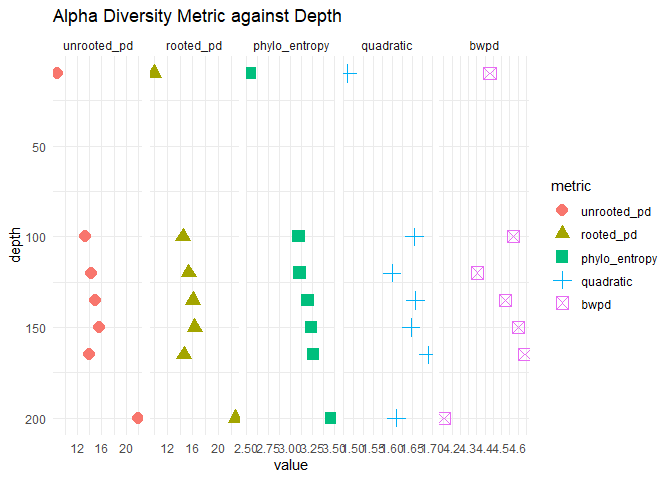
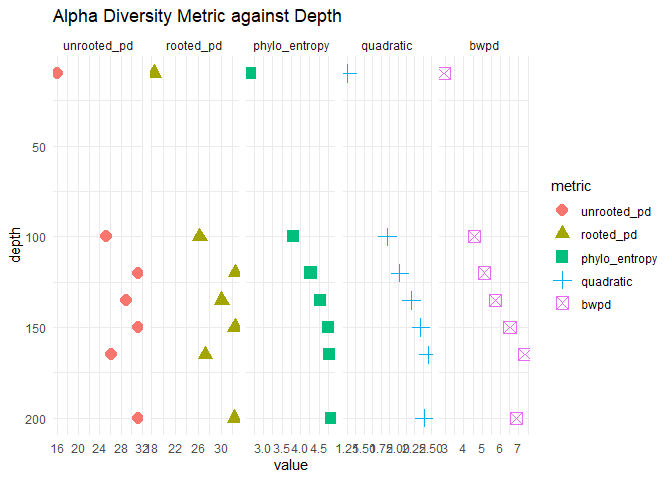
submit

diff --git a/Analysis_Code_SY.md b/Analysis_Code_SY.md
@@ -34,99 +34,7 @@ library(tidyverse)   # Includes ggplot2, dplyr, readr, etc.
 library(pheatmap)
 
 # Load the data from the CSV file
-saanich_data <- read_csv("../Saanich_Data.csv")  # Change this to read_tsv() if needed
-```
-
-    ## Rows: 1605 Columns: 29
-    ## ── Column specification ────────────────────────────────────────────────────────
-    ## Delimiter: ","
-    ## dbl  (28): Longitude, Latitude, Cruise, Depth, WS_O2, PO4, SI, WS_NO3, Mean_...
-    ## date  (1): Date
-    ## 
-    ## ℹ Use `spec()` to retrieve the full column specification for this data.
-    ## ℹ Specify the column types or set `show_col_types = FALSE` to quiet this message.
-
-``` r
-# Display the first few rows of the dataset
-head(saanich_data)
-```
-
-    ## # A tibble: 6 × 29
-    ##   Longitude Latitude Cruise Date       Depth WS_O2   PO4    SI WS_NO3 Mean_NH4
-    ##       <dbl>    <dbl>  <dbl> <date>     <dbl> <dbl> <dbl> <dbl>  <dbl>    <dbl>
-    ## 1     -124.     48.6      1 2006-02-18 0.01     NA  2.42    NA   26.7       NA
-    ## 2     -124.     48.6      1 2006-02-18 0.025    NA  2.11    NA   23.2       NA
-    ## 3     -124.     48.6      1 2006-02-18 0.04     NA  2.14    NA   19.5       NA
-    ## 4     -124.     48.6      1 2006-02-18 0.055    NA  2.49    NA   22.6       NA
-    ## 5     -124.     48.6      1 2006-02-18 0.07     NA  2.24    NA   23.1       NA
-    ## 6     -124.     48.6      1 2006-02-18 0.08     NA  2.80    NA   23.1       NA
-    ## # ℹ 19 more variables: Std_NH4 <dbl>, Mean_NO2 <dbl>, Std_NO2 <dbl>,
-    ## #   WS_H2S <dbl>, Std_H2S <dbl>, Cells.ml <dbl>, Mean_N2 <dbl>, Std_n2 <dbl>,
-    ## #   Mean_O2 <dbl>, Std_o2 <dbl>, Mean_co2 <dbl>, Std_co2 <dbl>, Mean_N2O <dbl>,
-    ## #   Std_N2O <dbl>, Mean_CH4 <dbl>, Std_CH4 <dbl>, Temperature <dbl>,
-    ## #   Salinity <dbl>, Density <dbl>
-
-``` r
-# Histogram
-ggplot(saanich_data, aes(x = WS_O2)) +
-  geom_histogram(bins = 10, fill = "gray", colour = "black") +
-  labs(title = "Distribution of Oxygen Concentrations",
-       x = "O2 (uM)",
-       y = "Frequency") +
-  theme_minimal()
-```
-
-    ## Warning: Removed 356 rows containing non-finite outside the scale range
-    ## (`stat_bin()`).
-
-![](Analysis_Code_SY_files/figure-gfm/unnamed-chunk-1-1.png)<!-- -->
-
-``` r
-# Scatterplot
-ggplot(saanich_data, aes(x = WS_O2, y = WS_NO3, color = Depth)) +
-  geom_point() +
-  labs(title = "Oxygen vs Nitrate Concentrations by Depth",
-       x = "O2 (uM)",
-       y = "NO3 (uM)") +
-  scale_color_gradient(low = "black", high = "lightgray", trans = "reverse") +  # Grayscale gradient
-  theme_minimal()
-```
-
-    ## Warning: Removed 487 rows containing missing values or values outside the scale range
-    ## (`geom_point()`).
-
-![](Analysis_Code_SY_files/figure-gfm/unnamed-chunk-1-2.png)<!-- -->
-
-``` r
-# Vertical plot
-# Select relevant columns
-saanich_data_wide <- saanich_data %>%
-  select(Cruise, Date, Depth, WS_O2, WS_NO3, WS_H2S)
-
-# Pivot data to a longer format for faceting
-saanich_data_longer <- saanich_data_wide %>%
-  pivot_longer(cols = starts_with("WS_"),
-               names_to = "Chemical",
-               values_to = "Concentration_uM")
-
-ggplot(saanich_data_longer, aes(y = Depth, x = Concentration_uM)) +
-  geom_point(aes(colour = Chemical, shape = Chemical)) +
-  scale_y_reverse() +
-  labs(title = "Electron Acceptor Concentrations Against Depth",
-       x = "Concentration (uM)") +
-  theme_minimal() +
-  facet_grid(. ~ Chemical, scales = "free_x")
-```
-
-    ## Warning: Removed 681 rows containing missing values or values outside the scale range
-    ## (`geom_point()`).
-
-![](Analysis_Code_SY_files/figure-gfm/unnamed-chunk-1-3.png)<!-- -->
-
-``` r
-## Saanich TreeSAPP DsrAB
-# Load the data from the CSV file
-alpha_data <- read_csv("../alpha_diversity/SI_TS_DsrAB_alpha_diversiy.csv")  # Change this to read_tsv() if needed
+alpha_data <- read_csv("../alpha_diversity/SI_TS_NorB_alpha_diversiy.csv")  
 ```
 
     ## Rows: 7 Columns: 6
@@ -139,6 +47,36 @@ alpha_data <- read_csv("../alpha_diversity/SI_TS_DsrAB_alpha_diversiy.csv")  # C
     ## ℹ Specify the column types or set `show_col_types = FALSE` to quiet this message.
 
 ``` r
+beta_data <- read.csv("../beta_diversity/SI_TS_NorB_beta_diversity.csv")
+
+# Display the first few rows of the dataset
+head(alpha_data)
+```
+
+    ## # A tibble: 6 × 6
+    ##   placerun                   phylo_entropy quadratic unrooted_pd rooted_pd  bwpd
+    ##   <chr>                              <dbl>     <dbl>       <dbl>     <dbl> <dbl>
+    ## 1 SI072_100m_NorB_complete_…          3.81      1.84        25.2      26.3  4.56
+    ## 2 SI072_10m_NorB_complete_p…          2.66      1.25        16.1      18.4  2.91
+    ## 3 SI072_120m_NorB_complete_…          4.28      2.03        31.3      32.4  5.11
+    ## 4 SI072_135m_NorB_complete_…          4.54      2.20        29.0      30.1  5.72
+    ## 5 SI072_150m_NorB_complete_…          4.75      2.34        31.3      32.4  6.51
+    ## 6 SI072_165m_NorB_complete_…          4.78      2.45        26.2      27.3  7.34
+
+``` r
+head(beta_data)
+```
+
+    ##                           sample_1                         sample_2      Z_1
+    ## 1 SI072_100m_NorB_complete_profile  SI072_10m_NorB_complete_profile 2.027050
+    ## 2 SI072_100m_NorB_complete_profile SI072_120m_NorB_complete_profile 0.643971
+    ## 3 SI072_100m_NorB_complete_profile SI072_135m_NorB_complete_profile 1.038210
+    ## 4 SI072_100m_NorB_complete_profile SI072_150m_NorB_complete_profile 1.730160
+    ## 5 SI072_100m_NorB_complete_profile SI072_165m_NorB_complete_profile 2.386000
+    ## 6 SI072_100m_NorB_complete_profile SI072_200m_NorB_complete_profile 2.074650
+
+``` r
+## Saanich TreeSAPP NorB
 # Split the placerun column
 alpha_data <- alpha_data %>%
   separate(placerun, into = c("sample", "depth", "gene", "extra"), sep = "_", remove = FALSE) %>%
@@ -157,42 +95,13 @@ head(alpha_data)
     ## # A tibble: 6 × 9
     ##   placerun      sample depth gene  phylo_entropy quadratic unrooted_pd rooted_pd
     ##   <chr>         <chr>  <dbl> <chr>         <dbl>     <dbl>       <dbl>     <dbl>
-    ## 1 SI072_100m_D… SI072    100 DsrAB          3.09      1.66       13.4      14.5 
-    ## 2 SI072_10m_Ds… SI072     10 DsrAB          2.54      1.48        8.80      9.91
-    ## 3 SI072_120m_D… SI072    120 DsrAB          3.10      1.60       14.2      15.4 
-    ## 4 SI072_135m_D… SI072    135 DsrAB          3.20      1.66       14.9      16.0 
-    ## 5 SI072_150m_D… SI072    150 DsrAB          3.24      1.65       15.6      16.3 
-    ## 6 SI072_165m_D… SI072    165 DsrAB          3.26      1.69       13.9      14.6 
+    ## 1 SI072_100m_N… SI072    100 NorB           3.81      1.84        25.2      26.3
+    ## 2 SI072_10m_No… SI072     10 NorB           2.66      1.25        16.1      18.4
+    ## 3 SI072_120m_N… SI072    120 NorB           4.28      2.03        31.3      32.4
+    ## 4 SI072_135m_N… SI072    135 NorB           4.54      2.20        29.0      30.1
+    ## 5 SI072_150m_N… SI072    150 NorB           4.75      2.34        31.3      32.4
+    ## 6 SI072_165m_N… SI072    165 NorB           4.78      2.45        26.2      27.3
     ## # ℹ 1 more variable: bwpd <dbl>
-
-``` r
-# Load the data from the CSV file
-beta_data <- read_csv("../beta_diversity/SI_TS_DsrAB_beta_diversity.csv")  # Change this to read_tsv() if needed
-```
-
-    ## Rows: 21 Columns: 3
-    ## ── Column specification ────────────────────────────────────────────────────────
-    ## Delimiter: ","
-    ## chr (2): sample_1, sample_2
-    ## dbl (1): Z_1
-    ## 
-    ## ℹ Use `spec()` to retrieve the full column specification for this data.
-    ## ℹ Specify the column types or set `show_col_types = FALSE` to quiet this message.
-
-``` r
-# Display the first few rows of the dataset
-head(beta_data)
-```
-
-    ## # A tibble: 6 × 3
-    ##   sample_1                          sample_2                            Z_1
-    ##   <chr>                             <chr>                             <dbl>
-    ## 1 SI072_100m_DsrAB_complete_profile SI072_10m_DsrAB_complete_profile  0.887
-    ## 2 SI072_100m_DsrAB_complete_profile SI072_120m_DsrAB_complete_profile 0.409
-    ## 3 SI072_100m_DsrAB_complete_profile SI072_135m_DsrAB_complete_profile 0.384
-    ## 4 SI072_100m_DsrAB_complete_profile SI072_150m_DsrAB_complete_profile 0.835
-    ## 5 SI072_100m_DsrAB_complete_profile SI072_165m_DsrAB_complete_profile 0.989
-    ## 6 SI072_100m_DsrAB_complete_profile SI072_200m_DsrAB_complete_profile 1.25
 
 # Alpha Diversity
 
@@ -235,8 +144,8 @@ KR distance. But first the data needs some cleaning.
 # Split 'sample_1' and 'sample_2' into their components (optional but useful for clarity)
 beta_data <- beta_data %>%
   mutate(
-    sample_1 = gsub("_DsrAB_complete_profile", "", sample_1),
-    sample_2 = gsub("_DsrAB_complete_profile", "", sample_2)
+    sample_1 = gsub("_NorB_complete_profile", "", sample_1),
+    sample_2 = gsub("_NorB_complete_profile", "", sample_2)
   ) %>%
   mutate(
     sample_1 = gsub("SI072_", "", sample_1),
@@ -277,14 +186,14 @@ beta_matrix_clean <- as.data.frame(beta_matrix_complete)
 print(beta_matrix_clean)
 ```
 
-    ##           10      100      120      135      150      165      200
-    ## 10  0.000000 0.887415 0.823000 0.859674 1.134750 1.379350 1.257030
-    ## 100 0.887415 0.000000 0.408684 0.383812 0.835392 0.989408 1.245400
-    ## 120 0.823000 0.408684 0.000000 0.377560 0.575683 0.789348 1.022770
-    ## 135 0.859674 0.383812 0.377560 0.000000 0.791192 0.931251 0.942531
-    ## 150 1.134750 0.835392 0.575683 0.791192 0.000000 0.572299 1.246880
-    ## 165 1.379350 0.989408 0.789348 0.931251 0.572299 0.000000 1.140560
-    ## 200 1.257030 1.245400 1.022770 0.942531 1.246880 1.140560 0.000000
+    ##          10      100      120      135      150      165      200
+    ## 10  0.00000 2.027050 2.308510 2.649310 3.159560 3.640060 3.415370
+    ## 100 2.02705 0.000000 0.643971 1.038210 1.730160 2.386000 2.074650
+    ## 120 2.30851 0.643971 0.000000 0.599217 1.278250 1.937730 1.593780
+    ## 135 2.64931 1.038210 0.599217 0.000000 0.874400 1.487100 1.171910
+    ## 150 3.15956 1.730160 1.278250 0.874400 0.000000 0.971246 0.764753
+    ## 165 3.64006 2.386000 1.937730 1.487100 0.971246 0.000000 0.687874
+    ## 200 3.41537 2.074650 1.593780 1.171910 0.764753 0.687874 0.000000
 
 Now the plotting:
 
@@ -344,7 +253,7 @@ class_data <- class_data %>%
   separate(Taxonomy, into = c("Root", "Domain", "Phylum", "Class", "Order", "Family", "Genus", "Species"), sep = ";", fill = "right") %>%
   select(-Root)  # Remove the 'Root' column
 sub_data <- class_data %>%
-  filter(Marker == "DsrAB")
+  filter(Marker == "NorB")
 sub_data %>% filter(is.na(as.numeric(Abundance)))
 ```
 
@@ -362,16 +271,16 @@ head(sub_data)
     ## # A tibble: 6 × 19
     ##   Sample Depth Query   Marker Start_pos End_pos Domain Phylum Class Order Family
     ##   <chr>  <dbl> <chr>   <chr>  <chr>     <chr>   <chr>  <chr>  <chr> <chr> <chr> 
-    ## 1 SI072     10 k147_3… DsrAB  5         251     " d__… " p__… " c_… " o_… " f__…
-    ## 2 SI072     10 k147_2… DsrAB  1         141     " d__… " p__… " c_… " o_… " f__…
-    ## 3 SI072     10 k147_3… DsrAB  2         96       <NA>   <NA>   <NA>  <NA>  <NA> 
-    ## 4 SI072     10 k147_4… DsrAB  505       768      <NA>   <NA>   <NA>  <NA>  <NA> 
-    ## 5 SI072     10 k147_3… DsrAB  1         256     " d__… " p__… " c_… " o_… " f__…
-    ## 6 SI072     10 k147_3… DsrAB  2         105      <NA>   <NA>   <NA>  <NA>  <NA> 
+    ## 1 SI072     10 k147_1… NorB   1         211     " d__… " p__… " c_… " o_… " f__…
+    ## 2 SI072     10 k147_4… NorB   1         218     " d__… " p__… " c_… " o_… " f__…
+    ## 3 SI072     10 k147_3… NorB   1         111     " d__… " p__… " c_… " o_… " f__…
+    ## 4 SI072     10 k147_4… NorB   1         222     " d__… " p__… " c_… " o_… " f__…
+    ## 5 SI072     10 k147_3… NorB   3         477     " d__… " p__… " c_… " o_… " f__…
+    ## 6 SI072     10 k147_1… NorB   1         44      " d__… " p__… " c_… " o_… " f__…
     ## # ℹ 8 more variables: Genus <chr>, Species <chr>, Abundance <chr>, iNode <chr>,
     ## #   `E-value` <chr>, LWR <chr>, EvoDist <chr>, Distances <chr>
 
-# Bubbleplot for DsrAB
+# Bubbleplot for NorB
 
 ``` r
 # Sum Abundance by Sample, Phylum, and Depth
@@ -386,7 +295,7 @@ ggplot(data_taxa, aes(x = Class, y = Depth)) +
   scale_y_reverse(limits = c(210, 0)) +  # Shallow at top, deep at bottom
   scale_size(range = c(1, 10)) +
   theme_minimal() +
-  labs(title = "Bubble Plot of Class Abundance by Depth for DsrAB",
+  labs(title = "Bubble Plot of Class Abundance by Depth for NorB",
        x = "Class",
        y = "Depth",
        size = "Abundance") +
